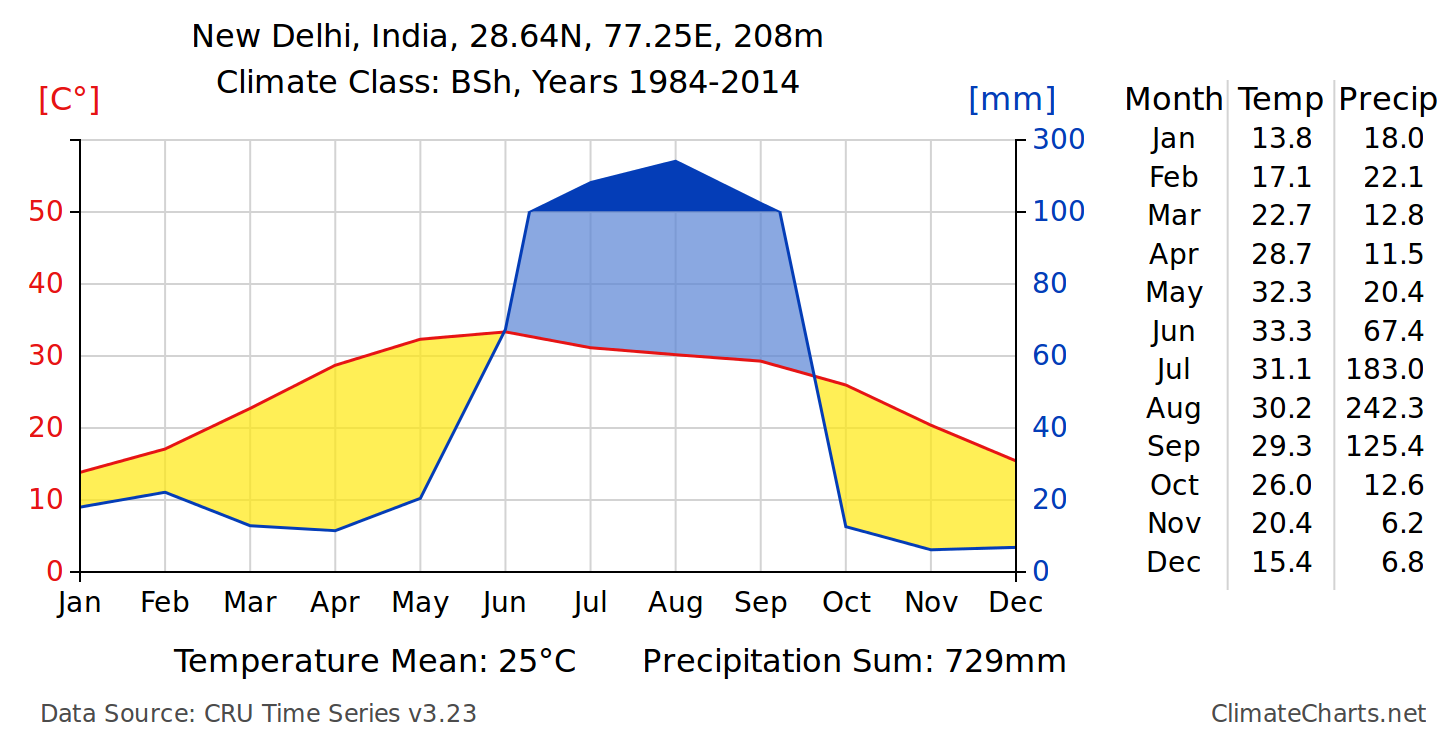
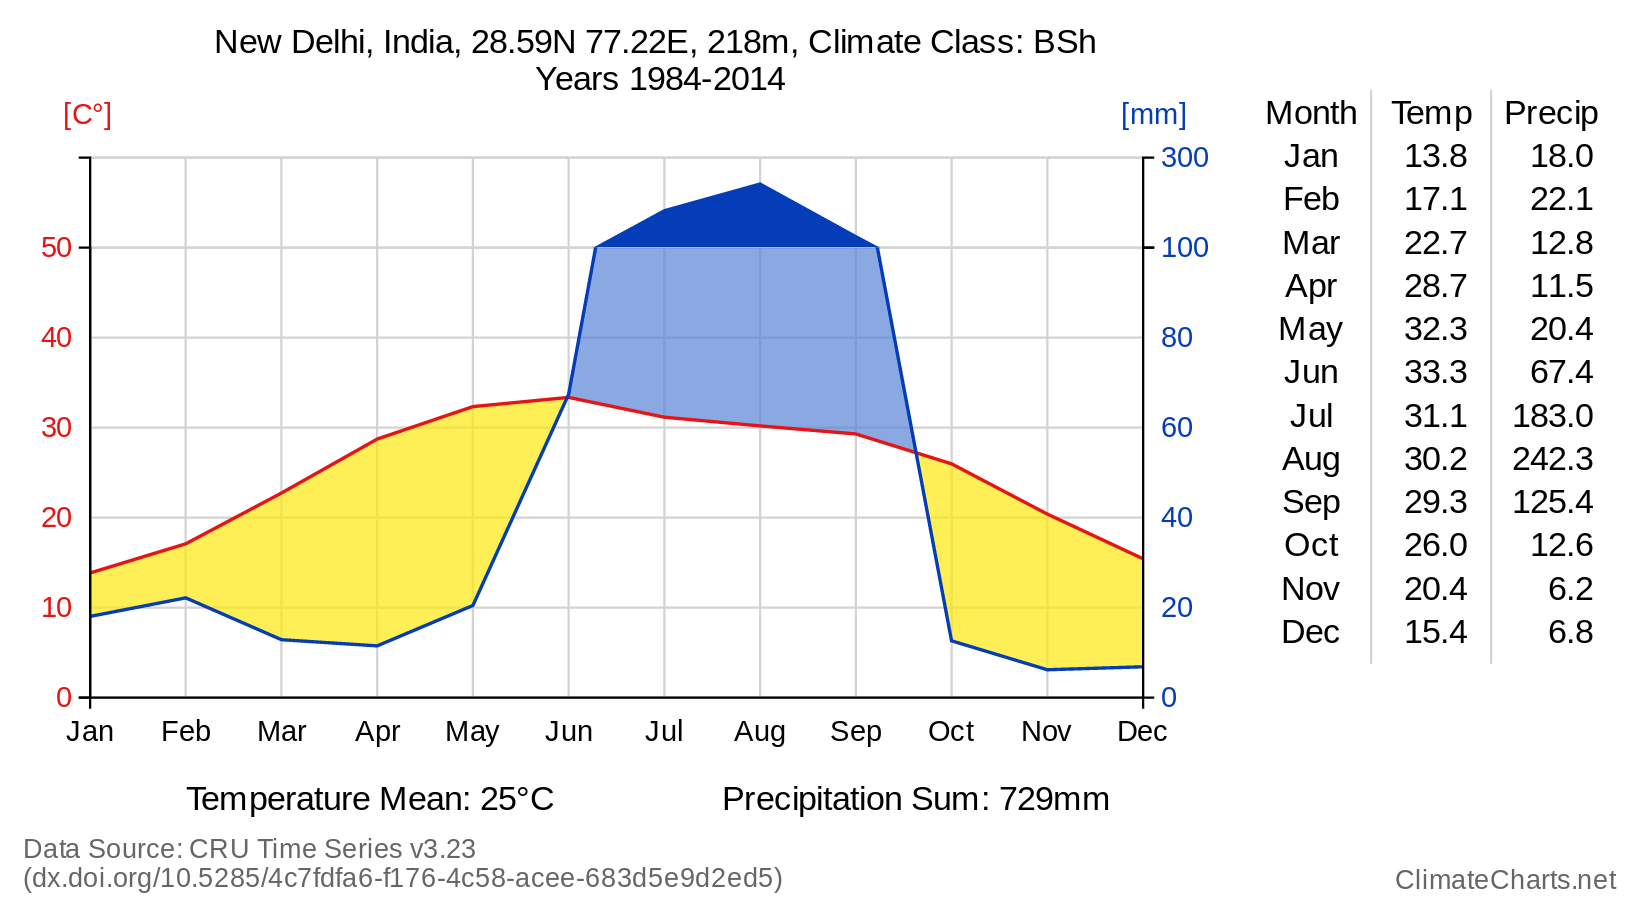
Change SVG font type and sizes.

diff --git a/src/main/webapp/js/drawChart.js b/src/main/webapp/js/drawChart.js
@@ -44,8 +44,8 @@ var chart = d3.select("#wrapper")
 				.attr("viewBox" , "0 0 " + WIDTH + " " + HEIGHT)
 				.attr("width", "100%")
 				.classed("svg-content-responsive", true)
-				.style("font-size", "16px")
-				.style("font-family", "Verdana, Geneva, sans-serif")
+				.style("font-size", "15px")
+				.style("font-family", "Arial, sans-serif")
 				.style("font-style", "normal")
 				.style("font-variant", "normal")
 				.style("font-weight", "normal")
@@ -58,7 +58,7 @@ var chart_width = - MARGINS.left + WIDTH - MARGINS.right,
 	chart_height = HEIGHT - MARGINS.top - MARGINS.bottom,
 	table_height = 250,
 	table_width = 160,
-	table_x = WIDTH - MARGINS.right + 1.75*MARGINS.rightS,
+	table_x = WIDTH - MARGINS.right + 1.6*MARGINS.rightS,
 	table_y = MARGINS.top - 15,
 	tableframe_y = table_y - 10;
 
@@ -74,10 +74,9 @@ var background = "white",
 	black = "black";
 
 //Font sizes of different text classes in the chart.
-var tick = "0.9em",
-	info = "1.0em",
-	infoL = "1.3em",
-	table = "0.9em",
+var tick = "13px",
+	info = "15px",
+	table = "14px",
 	source = "12px";
 
 //Domain reference.
@@ -896,7 +895,7 @@ chart.append("text")
 chart.append("text")
 	.attr("class", "info")
 	.attr("x", WIDTH*2/5)
-    .attr("y", MARGINS.top*1/4)
+    .attr("y", MARGINS.top*1/3)
     .attr("width", MARGINS.right - MARGINS.rightS)
     .attr("text-anchor", "middle")
     .text(getTitle())
@@ -919,17 +918,17 @@ chart.append("text")
 	.attr("class", "source")
 	.attr("id", "dataSource")
 	.attr("width", WIDTH)
-	.attr("x", 5)
+	.attr("x", 10)
 	.text("Data Source: " + getSource())
-	.call(wrap, WIDTH - 50, " ")
-	.attr("y", HEIGHT + 17 - $('#dataSource')[0].getBBox().height);
+	.call(wrap, WIDTH - 100, " ")
+	.attr("y", HEIGHT + 14 - $('#dataSource')[0].getBBox().height);
 
 chart.append("text")
 	.attr("id", "url")
 	.attr("class", "source")
 	.style("text-anchor", "end")
 	.append("tspan")
-	.attr("x", WIDTH - 5)
+	.attr("x", WIDTH - 10)
 	.attr("y", HEIGHT - 5)
 	.text(url);
 
@@ -996,7 +995,7 @@ chart.append('text')
 	.attr('x', table_x + table_width*5/6)
 	.attr('y', table_y)
 	.attr('text-anchor', 'end')
-	.call(fillColumn, "pre", table_x + table_width*39/40);
+	.call(fillColumn, "pre", table_x + table_width*19/20);
 
 //SET STYLING FOR DIFFERENT GROUPS OF ELEMENTS
 chart.selectAll(".grid")

diff --git a/src/main/webapp/index.html b/src/main/webapp/index.html
@@ -199,7 +199,7 @@
 											  <li>THREDDS Data Server</li>
 											  <li>GeoNames Webservices</li>
 											</ul> 
-											<p> Primarily developed for Firefox and Chrome. This website uses 
+											<p> Optimized for Firefox and Chrome. This website uses 
 												the Piwik Analytics Platform to obtain user data. 
 											</p>
 										</div>

diff --git a/src/main/webapp/js/ui.js b/src/main/webapp/js/ui.js
@@ -602,7 +602,8 @@ var UI  = {
 		clone.attr("width", width_png)
 		   .attr("height", height_png)
 		   .attr("viewbox", "0 0 " + width_png + " " + height_png)
-		   .attr("preserveAspectRatio", "xMinYMin meet");
+		   .attr("preserveAspectRatio", "xMinYMin meet")
+		   .style("font-size", "16px");
 		
 		var svg = $("#clone")[0],
 			canvas = $("canvas")[0],
